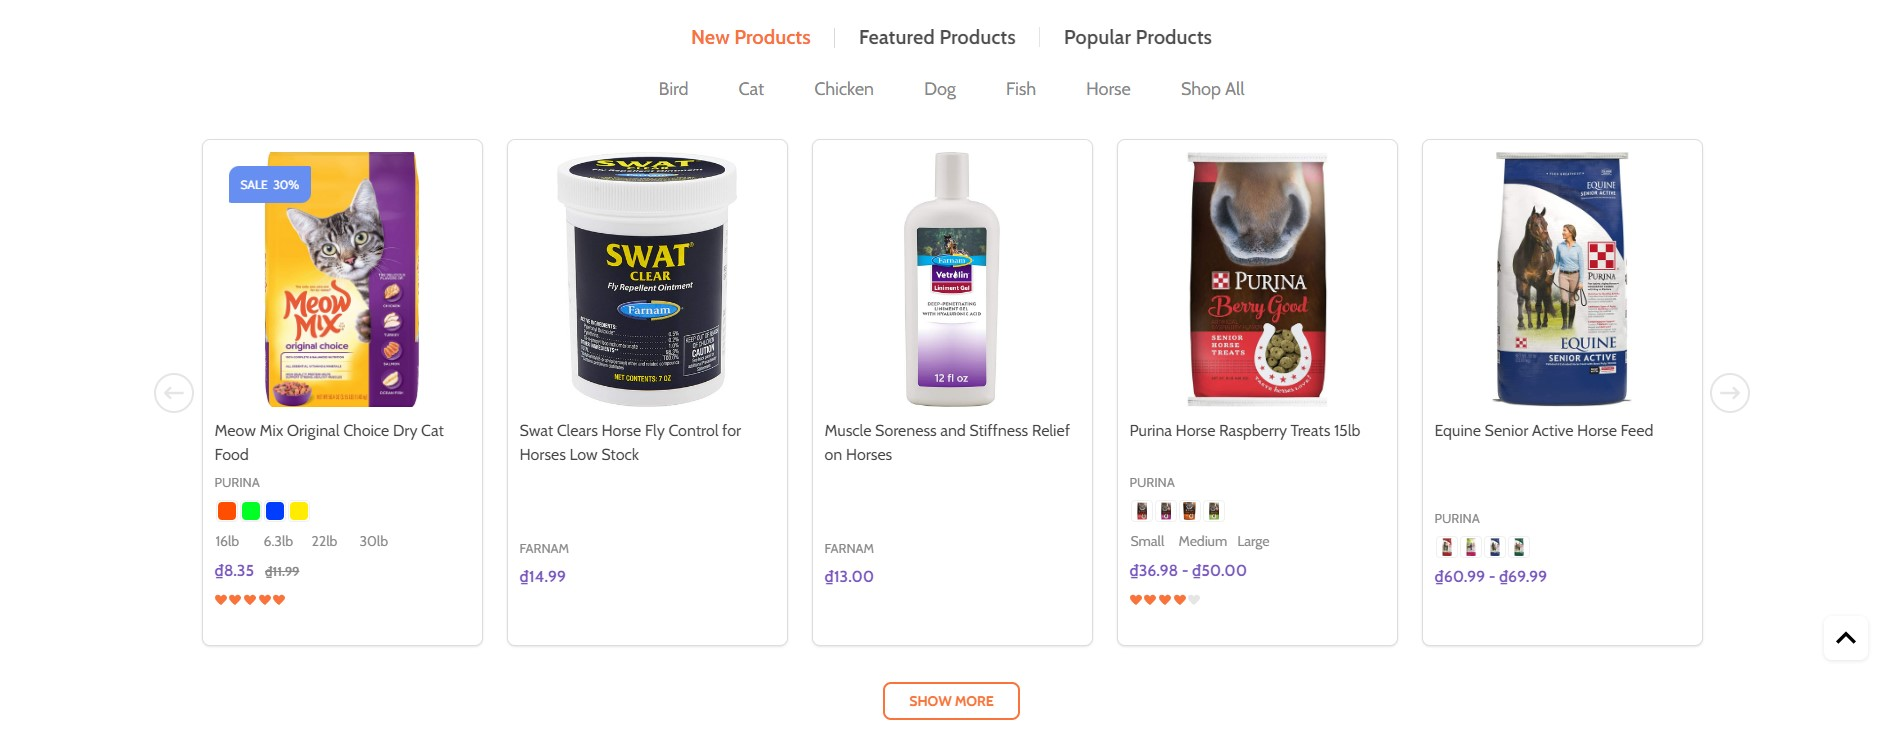
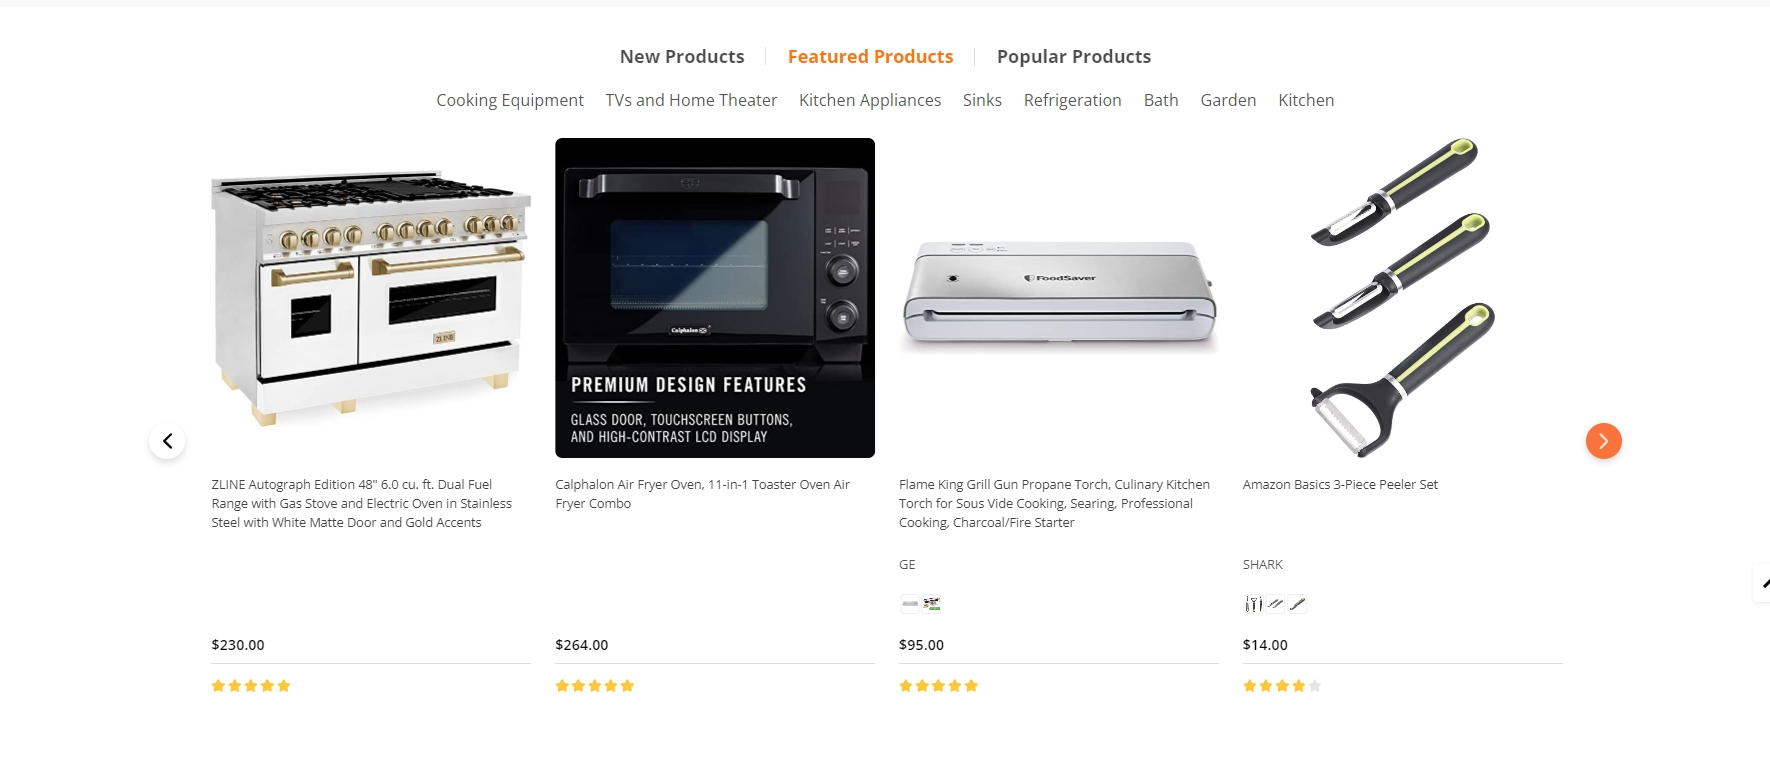
update kitchent docs

diff --git a/docs/usage.md b/docs/usage.md
@@ -28,7 +28,7 @@ Then click the Install buttons in turn to install all available widgets:
 
 ![install-papathemes-widgets](img/install-papathemes-widgets.jpg)
 
-Go to **Storefront** > **My Themes** > click **Customize** in dropdown menu of Mooncat theme to open Page Builder. Select any theme style to start:
+Go to **Storefront** > **My Themes** > click **Customize** in dropdown menu of Kitchenary theme to open Page Builder. Select any theme style to start:
 
 ![click-theme-customize](img/click-theme-customize.jpg)
 
@@ -37,7 +37,7 @@ Verify the widgets installed successfully if they appear in Page Builder:
 ![custom-widgets-appear](img/custom-widgets-appear.jpg)
 
 
-## Setting Up Pets Style Home Page
+## Setting Up Kitchenary Style Home Page
 
 To start customizing the theme, login to your admin panel, go to **Storefront** > **My Themes**, click **Customize** button next to theme thumbnail.
 
@@ -55,6 +55,15 @@ To configure the header, click on **Theme Styles** > **Header** section, here yo
 **Watch the instruction video:**
 
 <div style="padding:56.25% 0 0 0;position:relative;"><iframe src="https://player.vimeo.com/video/796872043?h=5d2873e4a6&amp;badge=0&amp;autopause=0&amp;player_id=0&amp;app_id=58479" frameborder="0" allow="autoplay; fullscreen; picture-in-picture" allowfullscreen style="position:absolute;top:0;left:0;width:100%;height:100%;" title="instr-header"></iframe></div><script src="https://player.vimeo.com/api/player.js"></script>
+
+#### Webpage Outliner
+
+![Outliner](img/website-outline.jpg)
+
+To config outliner of webpage, click on **Theme Styles** > **Header** > **Top Bar** change color of **Background** to color of your design (exmaple: #F3AD66). Beside the background the theme also allow users to change **Text**, **Text Hover** and **Icon** color on the Top Bar.
+
+
+![Top-bar](img/top-bar-background.jpg)
 
 #### Quick search
 
@@ -131,24 +140,6 @@ Before
 
 Affer:
 ![hidden-web-links](img/hidden-web-links.jpg)
-
-#### Products by category in mega menu
-
-![products-by-category-mega-menu](img/products-by-category-in-mega-menu.png)
-
-To create **Products by category in mega menu**:
-
-Drag and drop **Layout** widget to the corresponding position, change **Column** = `1`. Select **Column 1**, set **Padding** = `0 0 0 0`.
-
-Drag and drop **Section Heading | PapaThemes Beautify** widget into **Column 1**. Typing your text (example "Feature Box Items"), set **Padding** = `10 0 10 0`, **Padding (Mobile)** = `10 0 10 0`.
-
-Drag and drop **Products Feed | PapaThemes Beautify** widget into **Column 1** below **Section Heading** widget. In **Products** enter URL of the category to fetch products (example `/bird/`). Checked **Render with template** and enter your template file: `beautify/products-feed/list`.
-
-Change **Limit** = `3`.
-
-**Watch the instruction video:**
-
-<div style="padding:56.25% 0 0 0;position:relative;"><iframe src="https://player.vimeo.com/video/796864334?h=12fed2f800&amp;badge=0&amp;autopause=0&amp;player_id=0&amp;app_id=58479" frameborder="0" allow="autoplay; fullscreen; picture-in-picture" allowfullscreen style="position:absolute;top:0;left:0;width:100%;height:100%;" title="products-feed-guide-full"></iframe></div><script src="https://player.vimeo.com/api/player.js"></script>
 
 ### Top Banner
 
@@ -263,30 +254,9 @@ Noted: Total the height of two banner minus `24px` should equal height of main c
 
 <div style="padding:56.25% 0 0 0;position:relative;"><iframe src="https://player.vimeo.com/video/796915564?h=fc5cc022ba&amp;badge=0&amp;autopause=0&amp;player_id=0&amp;app_id=58479" frameborder="0" allow="autoplay; fullscreen; picture-in-picture" allowfullscreen style="position:absolute;top:0;left:0;width:100%;height:100%;" title="Instr-right banner"></iframe></div><script src="https://player.vimeo.com/api/player.js"></script>
 
-### Top categories
+### Shop for Kitchen icon
 
-Desktop
-![Top categories](img/top-categories.jpg)
 
-Mobile
-
-![Top categories](img/top-categories-mobile.jpg)
-
-To create Top categories, in Page Builder drag and drop the **Layout widget** to the position **home below carousel**. Select the layout change column to 1 and change **layout name** = `TOP CATEGORIES`.
-
-Drag and drop **Flex Banners | PapaThemes Beautify** to the layout delete all the items except the first one then change to your image change **width** = `237` and **height** = `100`. If you want to show different image on mobile please enable **show different image on mobile** change to your image on mobile and set **width** = `82`, **height** = `120`. Open content tab disable heading and enable description change **content align** = `center`, Content padding **Top** = `12px` **Left** = `60px`. In general tab change padding **Top, right, bottom, left** = `8px`. 
-
-On **Flex Banners | PapaThemes Beautify** choose setting. In general tab enable **display content overlaying banner on mobile**. In carousel tab, enable carousel and click on **setting**. In carousel setting , setup following **Items per slide** = `6`, table and mobile = `4`. Enable `show dot`.
-
-At **Description text** > **setting** change **Description style** = `Custom` set **Font size** = `18px`, **Font site (Mobile)** = `14px` and **Text color** = `#0F0F2D`.
-
-To change the background color, edit the layout, set Layout Background to a certain color that you want.
-
-To setup heading, drag and drop **section heading | PapaThemes Beautify** and type your heading. Change padding **bottom** = `20px`, **alignment** = `center`
-
-**Watch the instruction video:**
-
-<div style="padding:56.25% 0 0 0;position:relative;"><iframe src="https://player.vimeo.com/video/796510179?h=f3fd45871a&amp;badge=0&amp;autopause=0&amp;player_id=0&amp;app_id=58479" frameborder="0" allow="autoplay; fullscreen; picture-in-picture" allowfullscreen style="position:absolute;top:0;left:0;width:100%;height:100%;" title="instr-top category"></iframe></div><script src="https://player.vimeo.com/api/player.js"></script>
 
 
 ### Product by category
@@ -487,12 +457,53 @@ In **Settings** of **Flex Banners | PapaThemes Beautify** > **General**, uncheck
 
 <div style="padding:56.25% 0 0 0;position:relative;"><iframe src="https://player.vimeo.com/video/795508011?h=5c2f4c22f2&amp;badge=0&amp;autopause=0&amp;player_id=0&amp;app_id=58479" frameborder="0" allow="autoplay; fullscreen; picture-in-picture" allowfullscreen style="position:absolute;top:0;left:0;width:100%;height:100%;" title="instr-banner"></iframe></div><script src="https://player.vimeo.com/api/player.js"></script>
 
+### Shopping Guide
+
+![Shopping-guide](img/Shopping-guide.jpg)
+
+**Shopping guide** is section that loading content from **blogs page**. **Shopping guide** and **Blog** have the same content and function we advise you should only use one them.
+
+To enable **Shopping guide**, in **Theme Styles** > **Homepage** > **Section** choose one of sections and type `shopping_guide` to enable this block.
+
+To change color background of this section click on **Background** and select color fit to design.
+
+![Enable-shopping-guide](img/Enable-shopping-guide.jpg)
+
+To change tilte of this section, in **Hompage** find **Shopping guide & Newest Update** type your text in **Heading**.
+
+**Shopping guide** is an upgrade version of blogs section by add quick view modal which help user quickly access information without open new pages. **Shopping guide** quick view will automatic load all **widget** that have been designed from blog page.
+
+![Shopping-guide-modal](img/Shopping-guide-modal.jpg)
+
+### Featured brands
+
+![Featured-brand](img/featured-brand.jpg)
+
+**Featured brand** will automatic load all brands of your store.
+
+To enable **Featured brand**, in **Theme Styles** > **Homepage** > **Section** choose one of sections and type `featured_brands` to enable this block.
+
+To change color background of this section click on **Background** and select color fit to design.
+
+This section allow user change section tiltle and display/hide brands logo, in **Hompage** find **Featured brand** type your text in **Heading** and checked the **Show brand logo** to display brands logo.
+
+### Top Categories
+
+![Top-categories](img/Top-categories.jpg)
+
+**Top Categories** will automatic load first level categories of your store.
+
+To enable **Top Categories**, in **Theme Styles** > **Homepage** > **Section** choose one of sections and type `top_categories` to enable this block.
+
+To change color background of this section click on **Background** and select color fit to design.
+
+This section allow user change section tiltle, in **Hompage** find **Top Categories** type your text in **Heading**.
 
 ### Special products tabs
 
 ![special-products-tabs](img/special-products-tabs.jpg)
 
-You can configure special products tabs section settings in **Page Builder** > **Theme Styles** > **Home Page**, make sure one of the **Sections** field has **Special Products Tabs** selected.
+You can configure special products tabs section settings in **Page Builder** > **Theme Styles** > **Home Page**, make sure one of the **Sections** field type `spt`.
 
 In **New / Featured / Bestselling Tabs** section, Change **Number of products** = `5` and **Number of products load more on viewport** = `0`. You can change **Default tab** to `Featured`, `Bestselling` or `New`. **Display type** can be changed to `Carousel` or `Grid`. **Show more button**, **featured products**, **bestselling products**, **new products**, **categories** can be enabled by checked box.
 
@@ -502,34 +513,53 @@ In **New / Featured / Bestselling Tabs** section, Change **Number of products** 
 
 ### Featured products
 
-![featured-products](img/feature-product.jpg)
+![featured-products](img/Feature-products.jpg)
 
 You can set featured products in **Products**, click the **star** icon on the same row to set the product as featured.
 
-Go back to **Page Builder** > **Theme Styles** > **Home Page**, make sure one of the **Sections** field has **Featured Products** selected. In **Featured products** section, you can change the **Heading**, **Number of products** to display, Number of product per row (**Columns**), changing **Display type** to `Carousel` or `Grid`, changing the **background color**, editing the link of **View all products**.
+Go back to **Page Builder** > **Theme Styles** > **Home Page**, make sure one of the **Sections** has typed `featured_products`. In **Featured products** section, you can change the **Heading**, **Number of products** to display, Number of product per row (**Columns**), changing **Display type** to `Carousel` or `Grid`, changing the **background color**, editing the link of **View all products**.
 
 ### New products
 
-![new-products](img/new-product.jpg)
+![new-products](img/New-products.jpg)
 
-You can configure new products section settings in **Page Builder** > **Theme Styles** > **Home Page**, make sure one of the **Sections** field has **New Products** selected. In **New products** section, you can change the **Heading**, **Number of products** to display, Number of product per row (**Columns**), changing **Display type** to `Carousel` or `Grid`, changing the **background color**, editing the link of **View all products**.
+You can configure new products section settings in **Page Builder** > **Theme Styles** > **Home Page**, make sure one of the **Sections** has typed `new_products` . In **New products** section, you can change the **Heading**, **Number of products** to display, Number of product per row (**Columns**), changing **Display type** to `Carousel` or `Grid`, changing the **background color**, editing the link of **View all products**.
 
 ### Bestselling products
 
-![bestselling-products](img/best-selling-product.jpg)
+![bestselling-products](img/Popular-product.jpg)
 
 Bestselling products only display when your store has some order.
 
-You can configure bestselling products section settings in **Page Builder** > **Theme Styles** > **Home Page**, make sure one of the **Sections** field has **Popular Products** selected. In **Best-sellers products** section, you can change the **Heading**, **Number of products** to display, Number of product per row (**Columns**), changing **Display type** to `Carousel` or `Grid`, changing the **background color**, editing the link of **View all products**.
+You can configure bestselling products section settings in **Page Builder** > **Theme Styles** > **Home Page**, make sure one of the **Sections** has typed `popular_products`. In **Best-sellers products** section, you can change the **Heading**, **Number of products** to display, Number of product per row (**Columns**), changing **Display type** to `Carousel` or `Grid`, changing the **background color**, editing the link of **View all products**.
 
 ### Recently Viewed Products
 
-![bestselling-products](img/recently-viewed-product.jpg)
+![bestselling-products](img/Recently-viewed-products.jpg)
 
 Recently Viewed Products will be display automatically viewed any product.
 
-You can configure recently viewed products section settings in **Page Builder** > **Theme Styles** > **Home Page**, make sure one of the **Sections** field has **Recently Viewed Products** selected. In **Recently Viewed Products** section, you can change the **Heading**, **Number of products** to display, Number of product per row (**Columns**), changing **Display type** to `Carousel` or `Grid`, changing the **background color**, editing the link of **View all products**.
+You can configure recently viewed products section settings in **Page Builder** > **Theme Styles** > **Home Page**, make sure one of the **Sections** has typed `recentviewed`. In **Recently Viewed Products** section, you can change the **Heading**, **Number of products** to display, Number of product per row (**Columns**), changing **Display type** to `Carousel` or `Grid`, changing the **background color**, editing the link of **View all products**.
 
+### Customer service
+
+![customer-service](img/customer-service.jpg)
+
+To enable **Customer service**, in **Theme Styles** > **Homepage** > **Section** choose one of sections and type `top_categories` to enable this block.
+
+To change color background of this section click on Background and select color fit to design.
+
+This section allow user change section tiltle, in **Hompage** find **Customer service** type your text in Heading.
+
+- **Phone number**: will automatically collect number from store profile.
+- **Whapsapp**: To change Whatsapp number, go to **Footer** find **+Whatsapp** and type your number in the input field.
+- **Email**: To change email number, go to **Footer** find **+Email** and type your email address in the input field.
+
+![whatsapp-email](img/whatsapp-email.jpg)
+
+To change Background of button, go to **General** find **General colors** change **Secondary color** to your color.
+
+To change **Text**, **Icon** and **Hover** color go to **General** find **Links colors** change **Default** to your color.
 
 ### Instagram photos
 
@@ -609,146 +639,6 @@ In **design** you can type your link content and click on the **insert/edit link
 In the popup window, copy your web link to `URL`. On the **Open links..** field you can select how your link could be open in **New Window** or **Current Window**
  
  ![Insert-links](img/insert-links.jpg)
-
-## Setting Up Baby Style Home Page
-
-### General
-
-You can read these common instructions in **Setting Up Pets Style Home Page** chapter:
-
-- [Header](#header)
-- [Top Banner](#top-banner)
-- [Ad Banner displays on all pages](#ad-banner-displays-on-all-pages)
-- [Main carousel](#main-carousel)
-- [Top categories](#top-categories)
-- [Product by category](#product-by-category)
-- [Kitten and Puppy](#kitten-and-puppy)
-- [Top Brand](#top-brand)
-- [Double banner](#double-banner)
-- [Banner](#banner)
-- [Special products tabs](#special-products-tabs)
-- [Featured products](#featured-products)
-- [New products](#new-products)
-- [Bestselling products](#bestselling-products)
-- [Recently Viewed Products](#recently-viewed-products)
-- [Instagram photos](#instagram-photos)
-- [Recent blog posts](#recent-blog-posts)
-- [Newsletter](#newsletter)
-- [Footer](#footer)
-
-### Left-sidebar layout
-
-To display category on left sidebar, in **page builder** > **Theme styles** > **General**. Find **option layout**, select **left-sidebar**.
-
-![left-sidebar](img/left-sidebar.jpg)
-
-### Banner below sidebar
-
-![left-banner-below-left-sidebar](img/left-banner-below-left-sidebar.jpg)
-
-To create **Left Banner**, drag & drop **Layout** widget to the corresponding position, change **Column** = `1`.
-
-Select **Column 1**, set **Padding** = `0 0 0 0`. Drag & drop **Flex Banners | PapaThemes Beautify** widget into **Colum 1**. Delete all other banners except the first one.
-
-Upload your image set **Image width** = `388`, **Image height** = `725` and **Border radius** = `30px`.
-
-In **Content**, hide **Heading text** if your image has text already.
-
-In **General** > **Padding**, set `0` for all values.
-
-In **General** > **Padding**, set `100%` for all device.
-
-### Footer newsletter
-
-Go to Page Builder, in **Theme Styles** > **Footer** > **Newsletter** section, select **Style** = `In Footer`. Select **Show store logo** and **Show social icons** = `In newsletter`.
-Make sure **Show newsletter form** is selected. You can change the **Heading**, **background color**, **background image**, **button** and **text colors**.
-
-![newsletter-in-footer](img/newsletter-in-footer.jpg)
-
-## Setting Up Book Style Home Page
-
-### General
-
-You can read these common instructions in **Setting Up Pets Style Home Page** chapter:
-
-- [Header](#header)
-- [Top Banner](#top-banner)
-- [Ad Banner displays on all pages](#ad-banner-displays-on-all-pages)
-- [Main carousel](#main-carousel)
-- [Top categories](#top-categories)
-- [Product by category](#product-by-category)
-- [Kitten and Puppy](#kitten-and-puppy)
-- [Top Brand](#top-brand)
-- [Double banner](#double-banner)
-- [Banner](#banner)
-- [Special products tabs](#special-products-tabs)
-- [Featured products](#featured-products)
-- [New products](#new-products)
-- [Bestselling products](#bestselling-products)
-- [Recently Viewed Products](#recently-viewed-products)
-- [Instagram photos](#instagram-photos)
-- [Recent blog posts](#recent-blog-posts)
-- [Newsletter](#newsletter)
-- [Footer](#footer)
-
-
-## Setting Up Heath-care Style Home Page
-
-### General
-
-You can read these common instructions in **Setting Up Pets Style Home Page** chapter:
-
-- [Header](#header)
-- [Top Banner](#top-banner)
-- [Ad Banner displays on all pages](#ad-banner-displays-on-all-pages)
-- [Main carousel](#main-carousel)
-- [Top categories](#top-categories)
-- [Product by category](#product-by-category)
-- [Kitten and Puppy](#kitten-and-puppy)
-- [Top Brand](#top-brand)
-- [Double banner](#double-banner)
-- [Banner](#banner)
-- [Special products tabs](#special-products-tabs)
-- [Featured products](#featured-products)
-- [New products](#new-products)
-- [Bestselling products](#bestselling-products)
-- [Recently Viewed Products](#recently-viewed-products)
-- [Instagram photos](#instagram-photos)
-- [Recent blog posts](#recent-blog-posts)
-- [Newsletter](#newsletter)
-- [Footer](#footer)
-
-
-### Three Banners
-
-Desktop
-
-![three banners](img/three-banners.jpg)
-
-To create **Three Banners**:
-
-In **Page Builder**, drag & drop **Layout** widget to the corresponding position. Change **Column** = `1`. Drag and drop **Flex Banners | PapaThemes Beautify** widget into **Column 1** and duplicate **Banner 1** to 3 banners.
-
-To edit **Banner 1**, change your image, set **Image width** = `790px`, **Image height** = `435px`. Show different image on mobile and upload your image, set **Image width (Mobile)** = `388px`, **Image height (Mobile)** = `230px`, **Border radius** = `30px`.
-
-In **Content**, hide **Heading text** if your image already has text.
-
-In **General**, choose **Width** = `%`, set **Value (Desktop)** = `46%`, **Value (Tablet)** = `100%`, **Value (Mobile)** = `100%`. Set **Padding** for **Desktop** = `0 10 0 10`, **Table** = `0 15 0 0`, **Mobile** = `21 0 21 0`.
-
-To edit **Banner 2**, change your image, set **Image width** = `435px`, **Image height** = `435px`. If you want to show different image on mobile please enable **Show different image on mobile** upload your image in **Image (Mobile)** field. Set **Border radius** = `30px`.
-
-In **Content**, hide **Heading text** if your image already has text.
-
-In **General**, choose **Width** = `%`, set **Value (Desktop)** = `25.5%`, **Value (Tablet)** = `50%`, **Value (Mobile)** = `100%`. Set **Padding** for **Desktop** = `0 20 0 0`, **Table** = `0 0 32 0`, **Mobile** = `0 0 0 0`.
-
-Set values for **Banner 3** as the same **Banner 2**. In **General** of **Banner 3**, set **Padding** for **Desktop** = `0 0 0 20`, **Tablet** = `0 0 0 15`, **Mobile** = `0 0 0 0`.
-
-### Recent blog
-
-![Recent blog](img/recent-blog.jpg)
-
-In **Page Builder** > **Theme Styles** > **Home Page** > **Recent Blog** find **Number of posts**, select `2` to change display **Recent blog**.
-
 
 ## Customizing Products Display
 

diff --git a/docs/update.md b/docs/update.md
@@ -1,4 +1,4 @@
-# How to update Mooncat theme
+# How to update Kitchenary theme
 
 Log into your admin panel, go to **Storefront** > **My Themes** > click **Update Available** button appears on the theme thumbnail.
 
